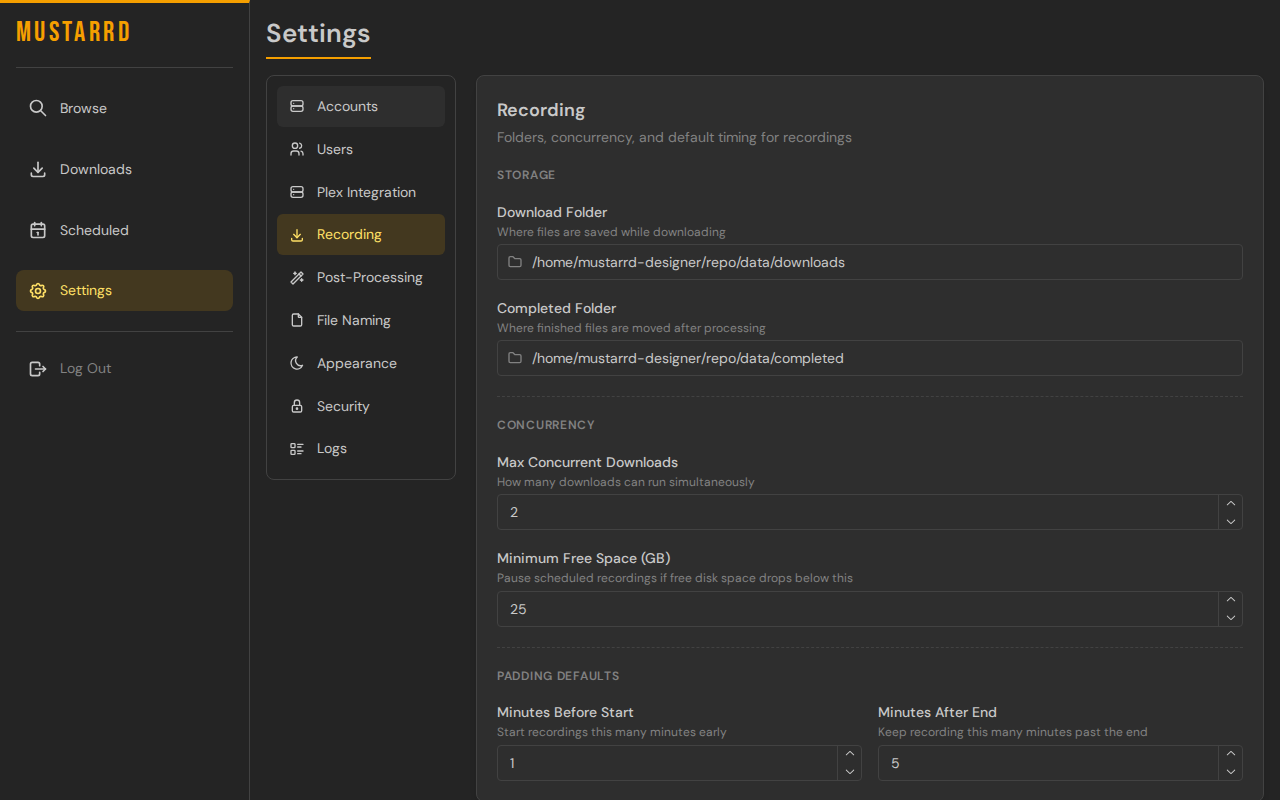
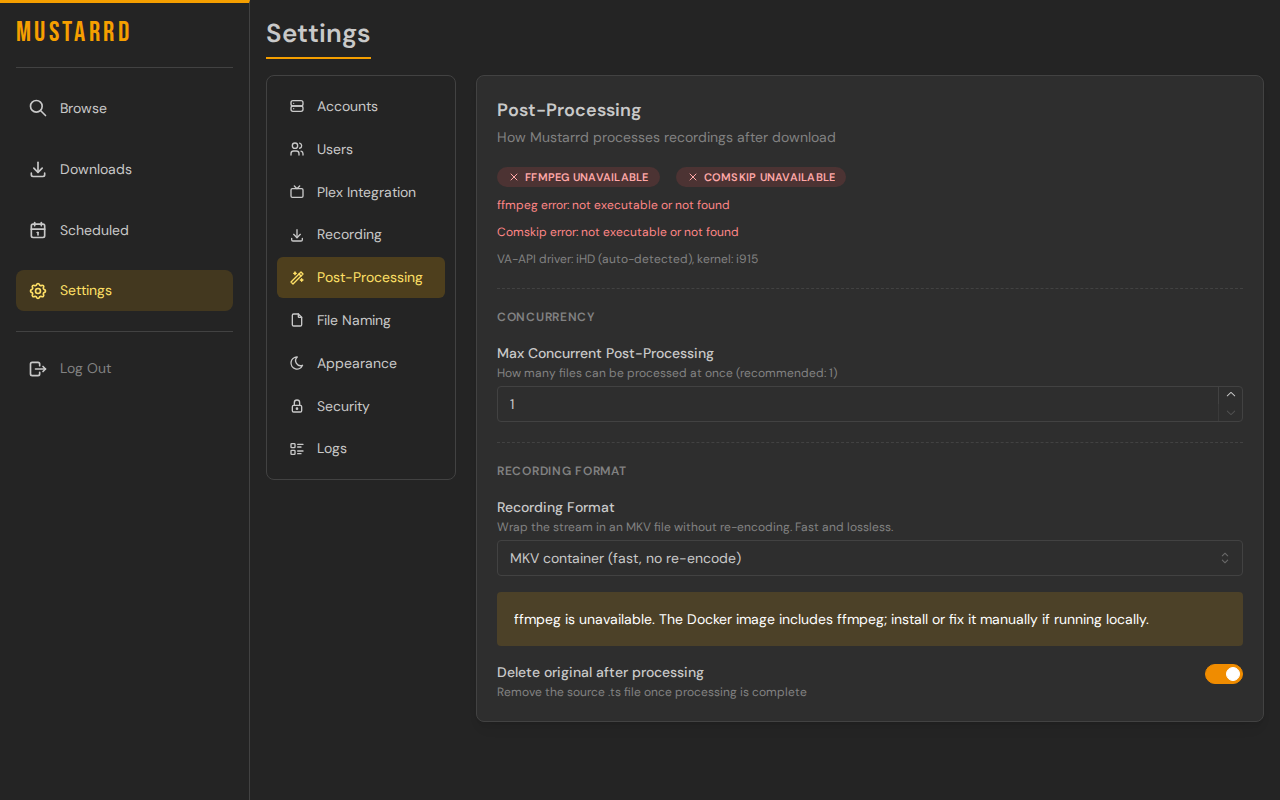
docs: changelog for PR #219, update Settings screenshot (#221)
Add plain-English CHANGELOG entry for the Go to Browse button
added to Downloads Upcoming empty state (PR #219).

Replace screenshot-settings.png with Pixel's clean Post-Processing
screenshot showing the Recording Format dropdown. Prior screenshot
still showed the old toggle switches removed in PR #112/PR #140.

diff --git a/CHANGELOG.md b/CHANGELOG.md
@@ -6,6 +6,14 @@ All notable changes to Mustarrd are listed here. Most recent changes are at the 
 
 ## 2026-06-08
 
+### Improved: Downloads Upcoming tab now has a Go to Browse button when empty
+
+**What you would notice:** When you have no upcoming recordings scheduled, the Downloads Upcoming tab used to show a message saying to go to Browse EPG to find something to record, but there was no button to take you there. You had to navigate there yourself. A Go to Browse button now appears on that empty state, matching the button already shown on the Active and Scheduled pages when they are empty.
+
+**What changed:** A Go to Browse button was added to the Downloads Upcoming empty state. No backend changes were made.
+
+---
+
 ### Fixed: Program guide now loads correctly for providers that use a namespace in their XMLTV feed
 
 **What you would notice:** Some IPTV providers include a specific XML marker called a namespace at the top of their program guide file. If your provider used one, Mustarrd would silently import zero programs. The Browse and Catchup pages would appear completely empty with no error message shown anywhere. After this fix, the guide loads normally for all providers regardless of whether their XMLTV file includes a namespace.
